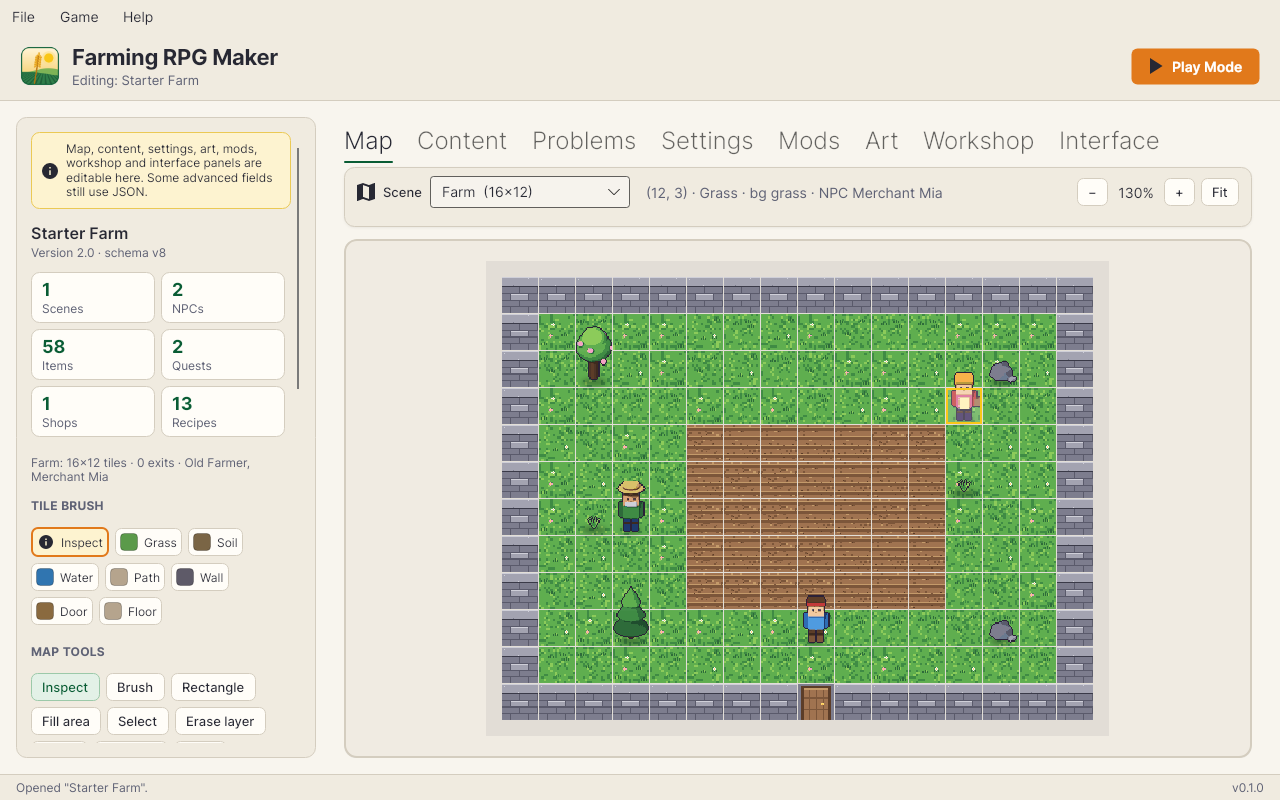
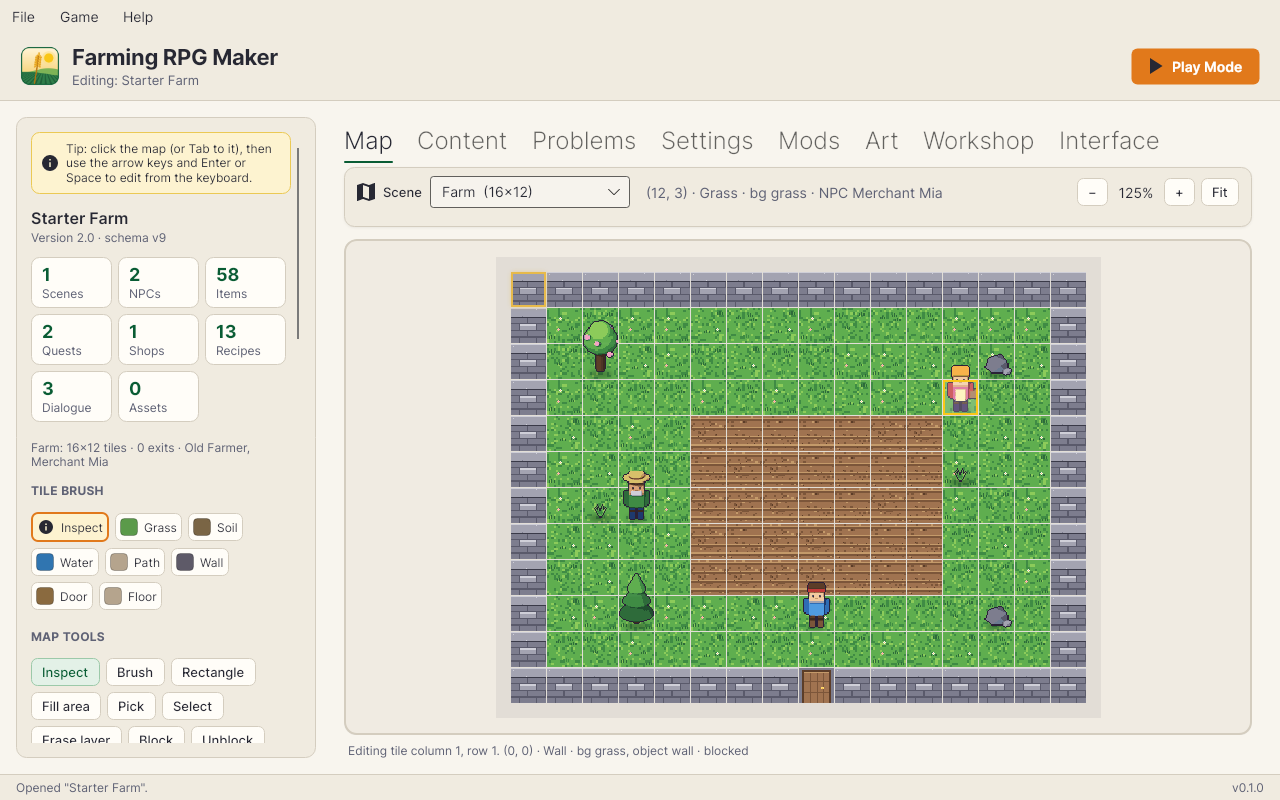
Tile descriptions print layer names, not F# options; refresh the README screenshots
Claude-Session: https://claude.ai/code/session_01BYppo64HowXxbe3tDgDDX5

diff --git a/src/FarmingRpgMaker.App/Game/EditModeView.cs b/src/FarmingRpgMaker.App/Game/EditModeView.cs
@@ -403,14 +403,14 @@ public sealed partial class EditModeView : UserControl
             layers.Add($"bg {tile.Background}");
         }
 
-        if (tile.Overlay is not null)
+        if (tile.Overlay.OrNull() is { } overlay)
         {
-            layers.Add($"overlay {tile.Overlay}");
+            layers.Add($"overlay {overlay}");
         }
 
-        if (tile.Object is not null)
+        if (tile.Object.OrNull() is { } tileObject)
         {
-            layers.Add($"object {tile.Object}");
+            layers.Add($"object {tileObject}");
         }
 
         if (layers.Count > 0)

diff --git a/tests/FarmingRpgMaker.App.Tests/Game/WorkspaceTests.cs b/tests/FarmingRpgMaker.App.Tests/Game/WorkspaceTests.cs
@@ -109,6 +109,7 @@ public sealed class WorkspaceTests
 
         var description = edit.DescribeTile(0, 0);
         Assert.StartsWith("(0, 0) · Wall", description, StringComparison.Ordinal);
+        Assert.Contains("object wall", description, StringComparison.Ordinal);
         Assert.Contains("NPC Old Farmer", edit.DescribeTile(3, 6), StringComparison.Ordinal);
 
         // Pointer hover over the canvas reports the tile under it.
